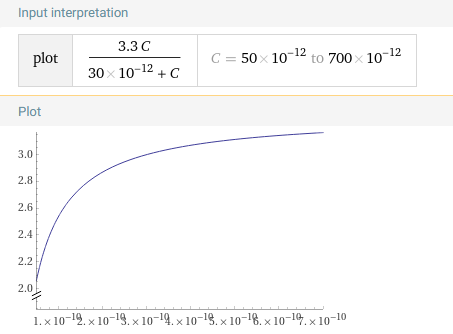
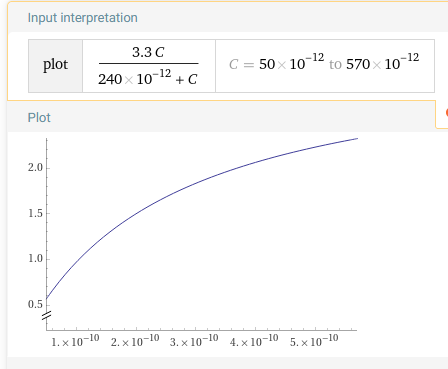
update text

diff --git a/README.md b/README.md
@@ -30,15 +30,13 @@ I used the the following board because that is what I had on my drawer:
 
 ### Using the Variable Capacitor to select the frequency
 
-If we connect the variable to the internal stray capacitor, the voltage on the ADC pin will settle quickly, therefore it is a simple voltage divider with stray capacitance:
+If we connect the variable to the internal stray capacitor, the voltage on the ADC pin will settle quickly (few pico-seconds), therefore it is a simple voltage divider with stray capacitance. If you don't believe me, you can simulate it here: https://tinyurl.com/2p23hk4f
 
 <p align="center">
-  <img src=".github\variable_capacitor.png" width="50%">
+  <img src=".github\sim.png" width="50%">
 </p>
 
-If you don't believe me, you can simulate it here: https://tinyurl.com/2ngws8rg
-
-Or calculate here: https://tinyurl.com/4mx4383y
+Or calculate here: https://tinyurl.com/yc6bk4t7
 
 <p align="center">
   <img src=".github\plot.png" width="50%">
